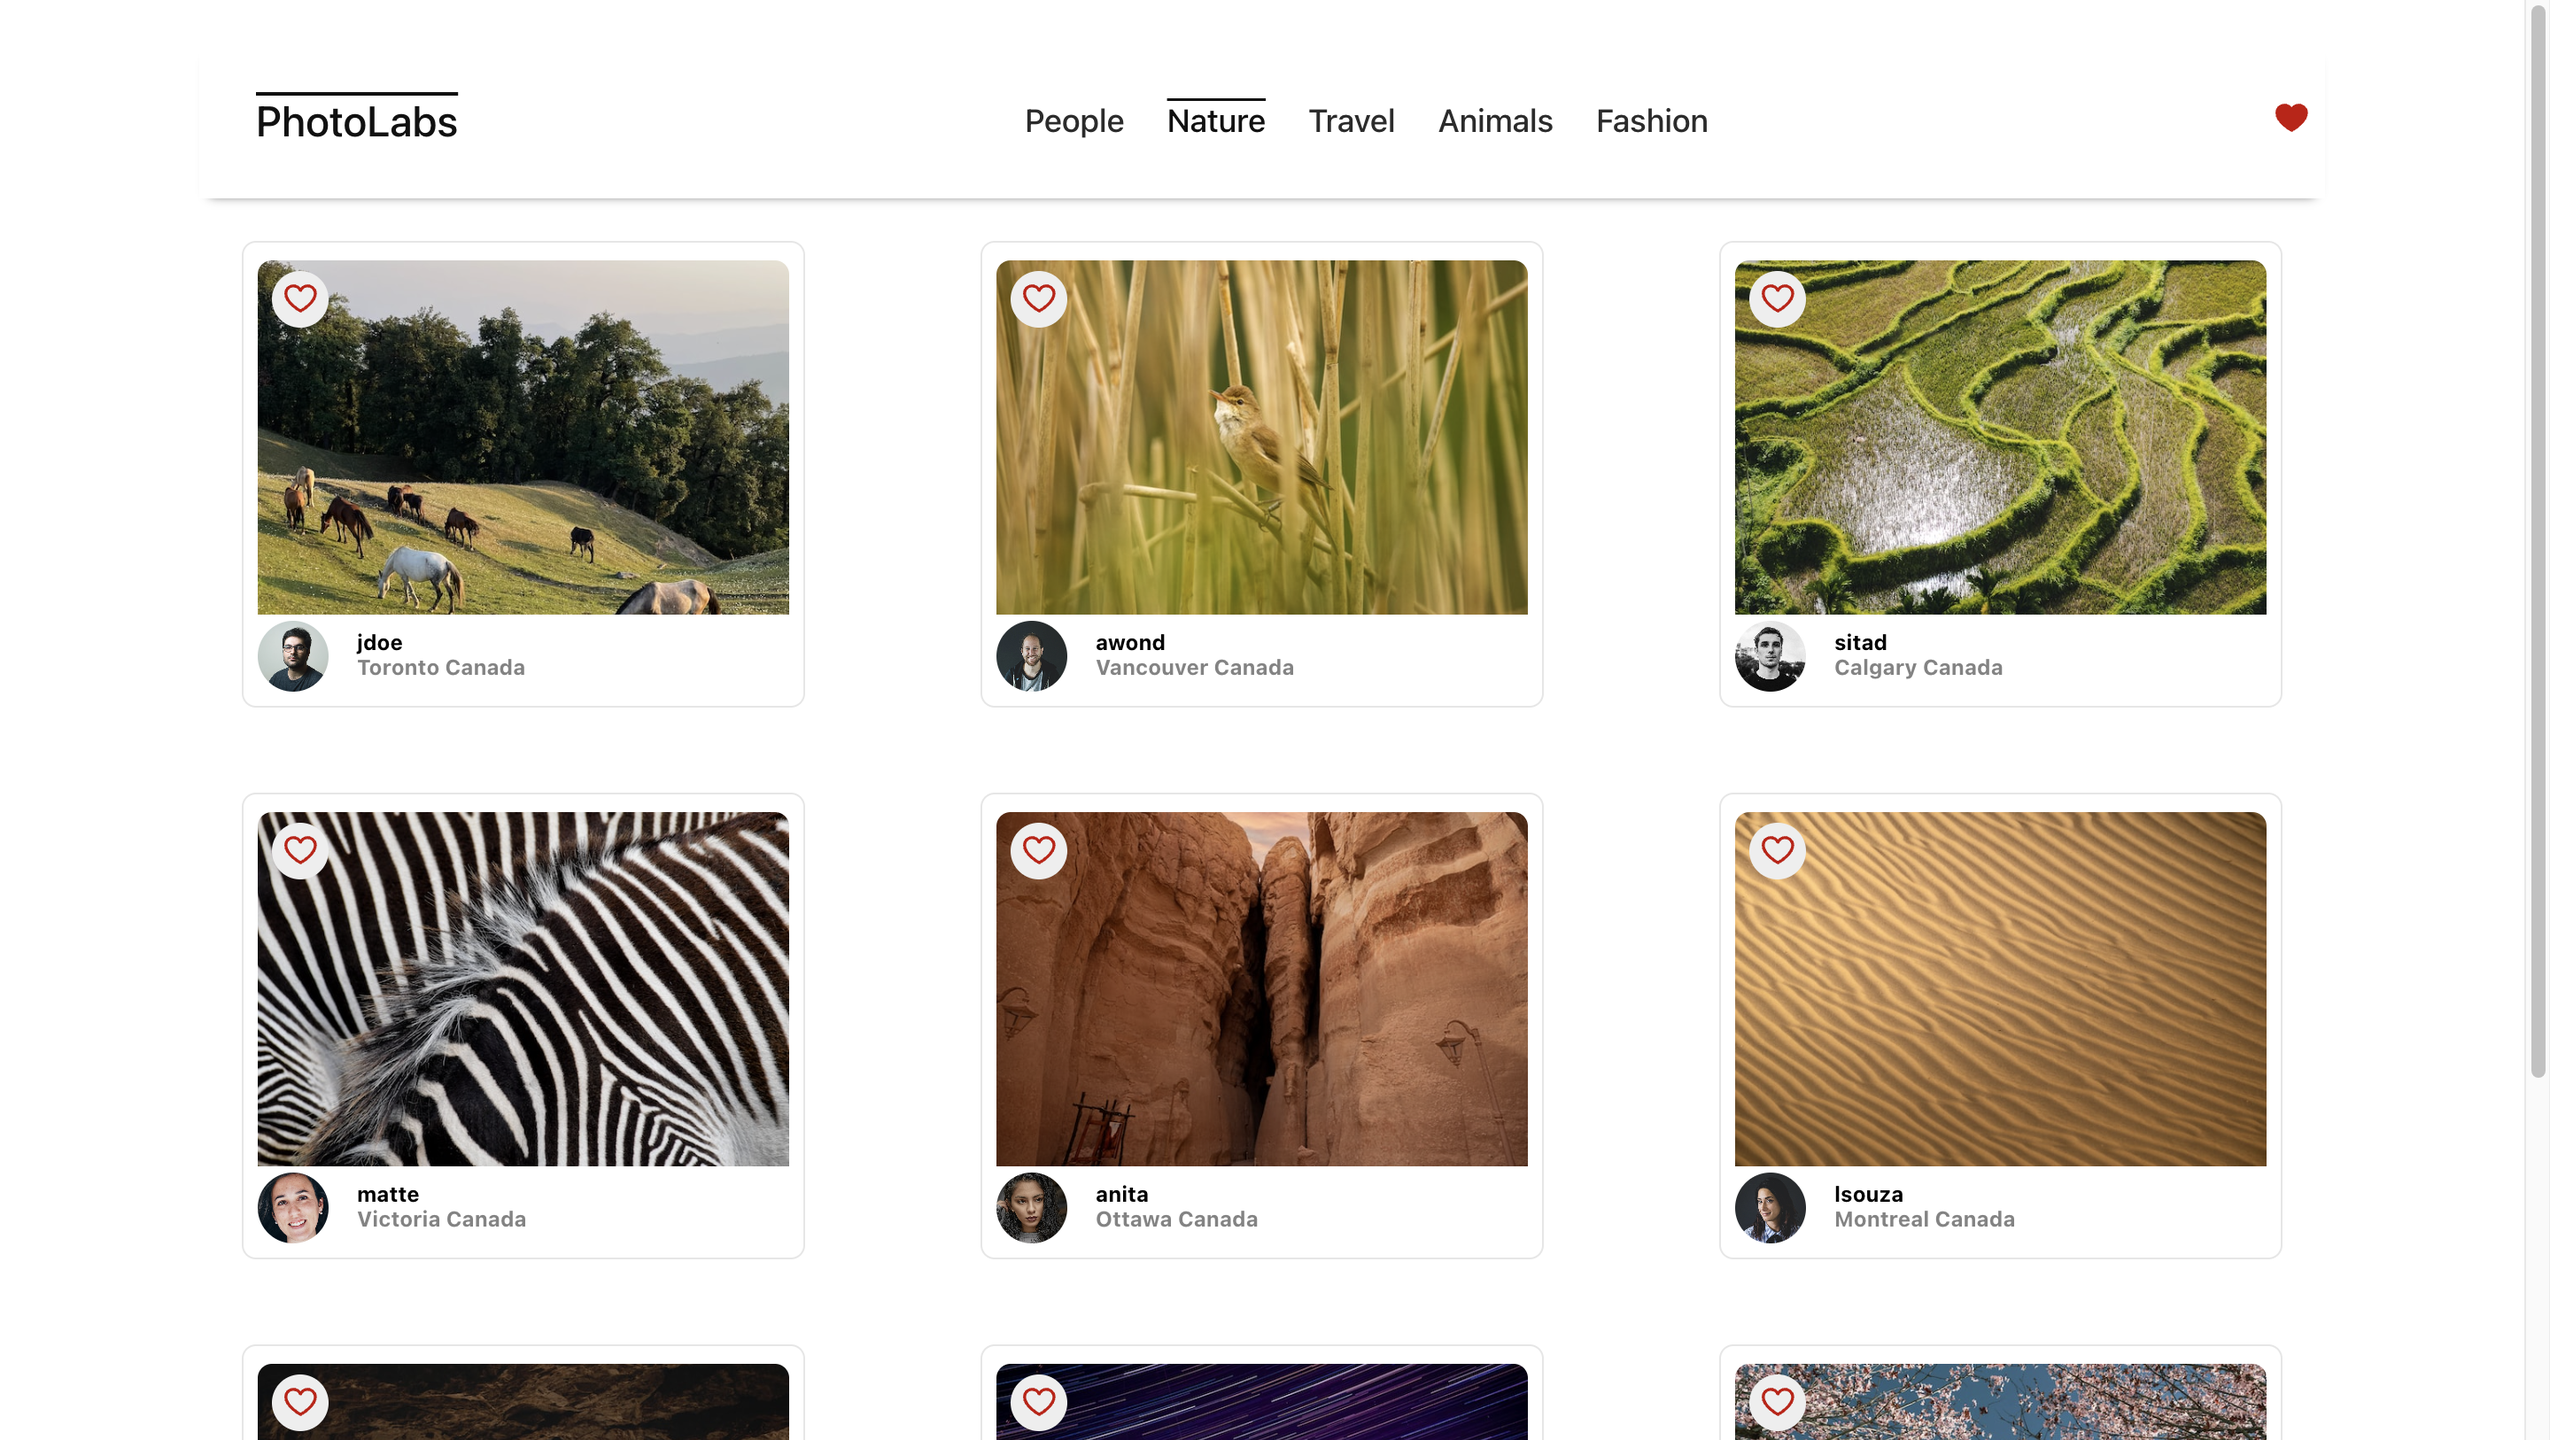
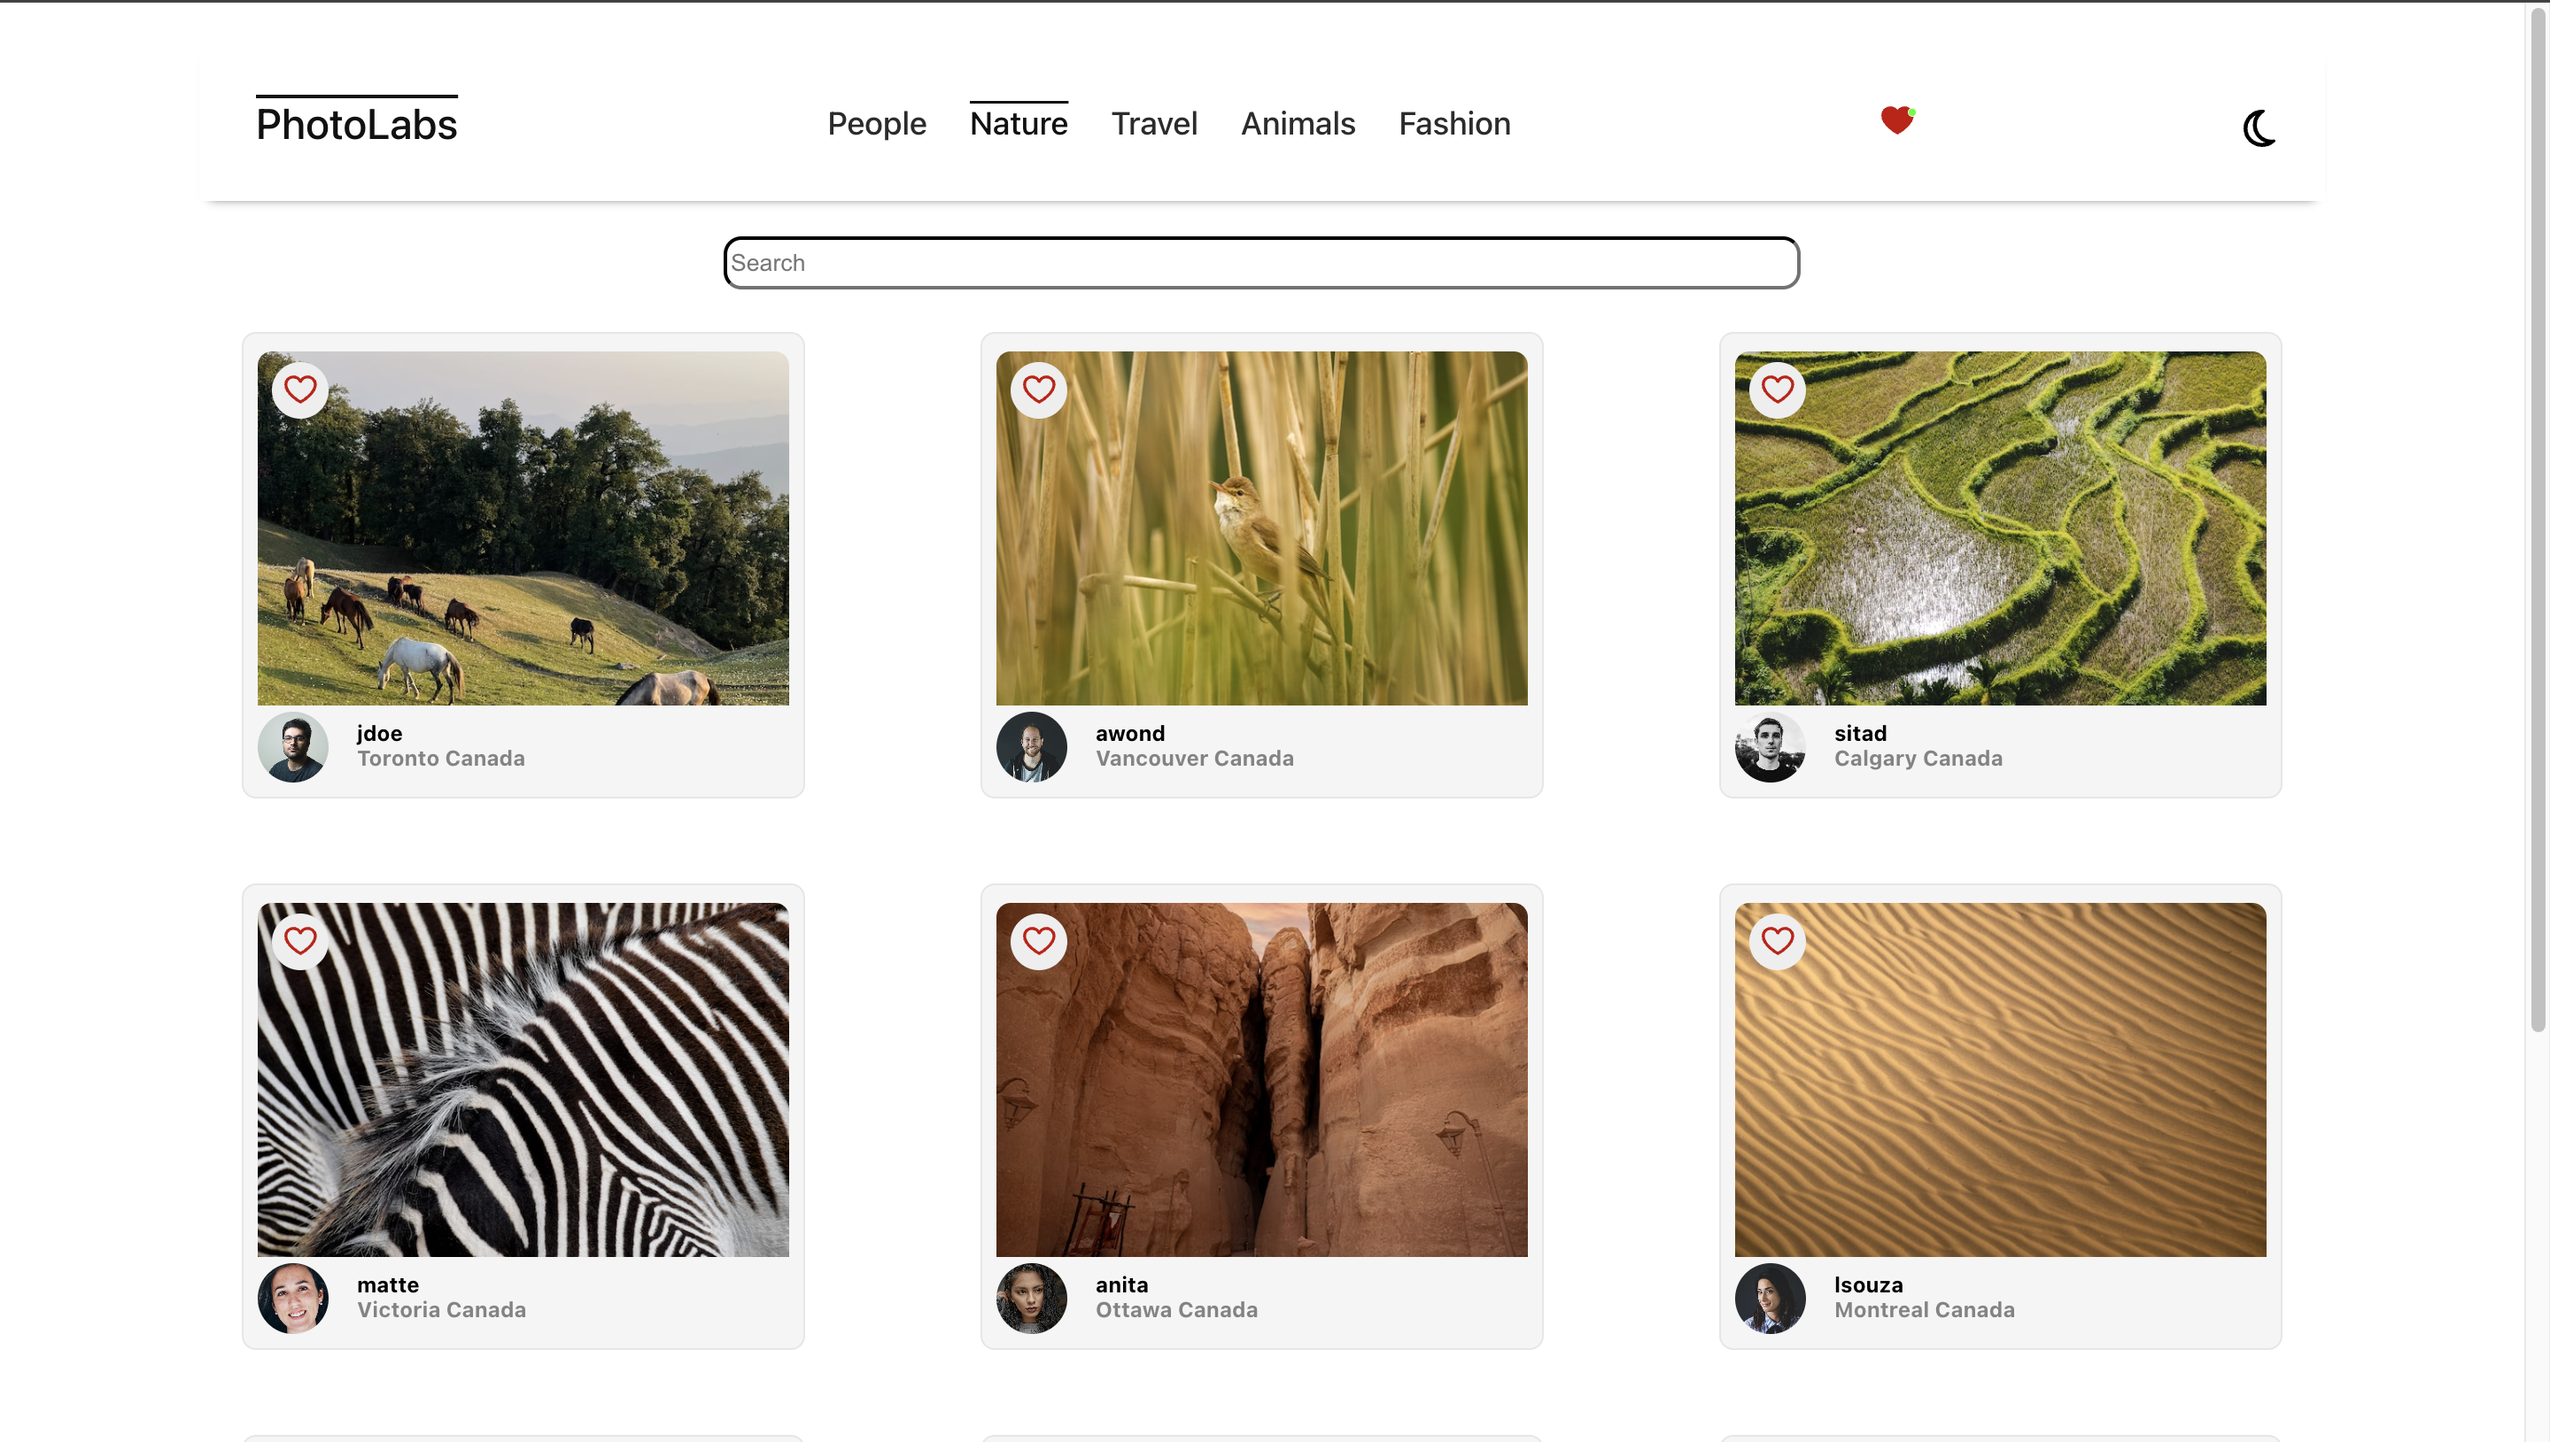
update readme file

diff --git a/README.md b/README.md
@@ -7,10 +7,14 @@ The PhotoLabs project is a React Project and is a part of the Lighthouse Labs we
 3. Notification appears on the heart in the Navigation bar when a photo is liked.
 4. When a topic on the Naigation bar is clicked, photos of that category is displayed.
 5. Clicking on the Photolabs logo reloads the page.
+6. User can change the app to Darkmode or Lightmode by clicking moon icon or sun icon.
+7. User can search photos by username, topic, city or country.
 
 ## App Interface
 !["Screenshot of Homepage"](https://github.com/vyshudoulagar/photolabs/blob/main/docs/photo-homepage.png)
 !["Screenshot of Modal"](https://github.com/vyshudoulagar/photolabs/blob/main/docs/photo-modal.png)
+!["Screenshot of Darkmode"]()
+!["Screenshot of Search"]()
 
 ## Setup
 
